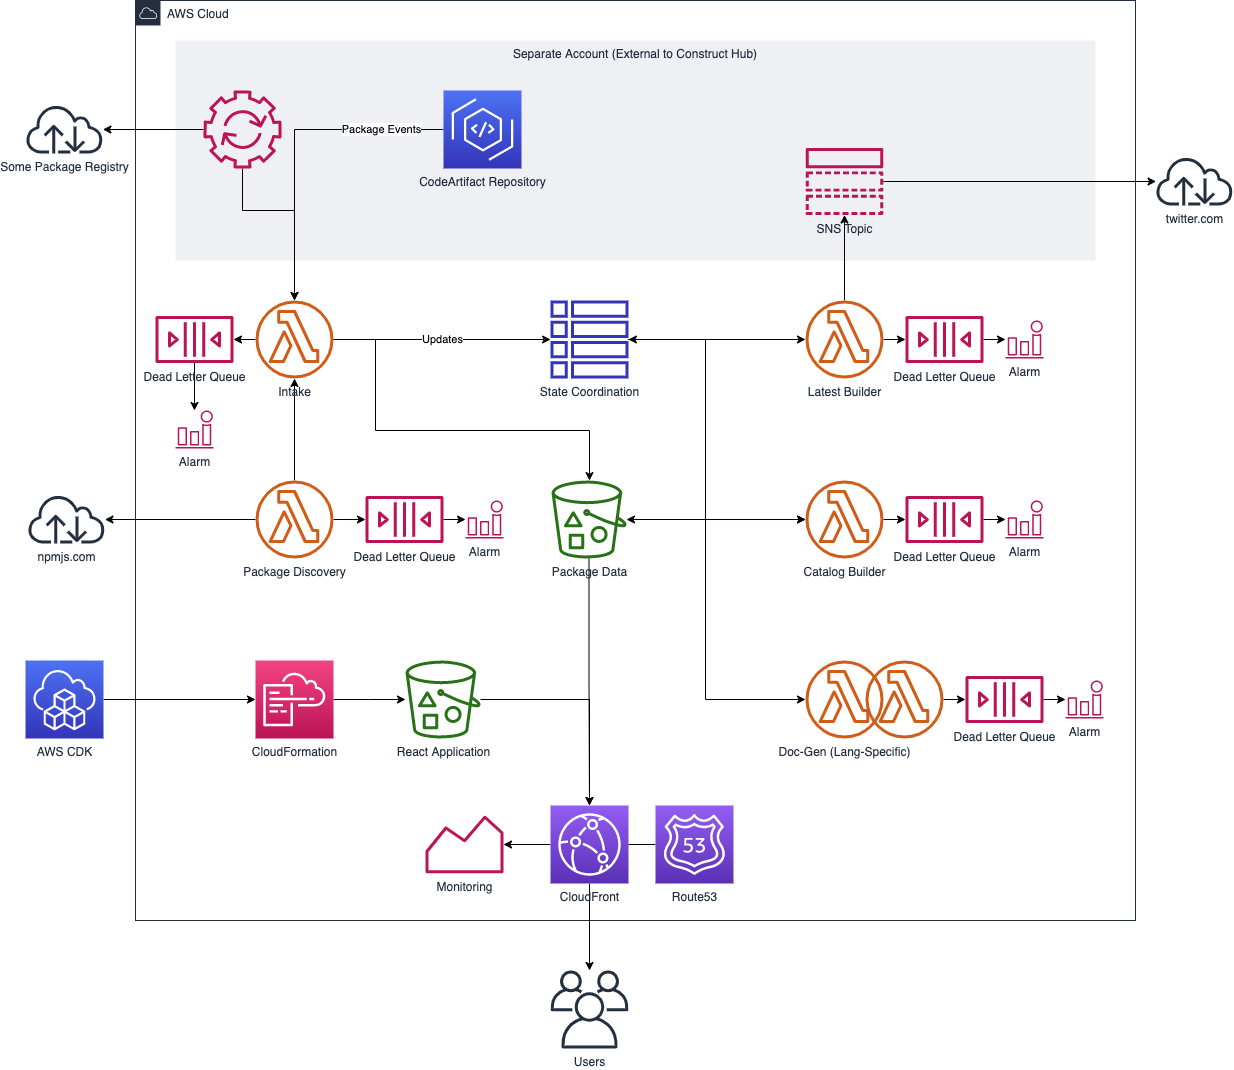
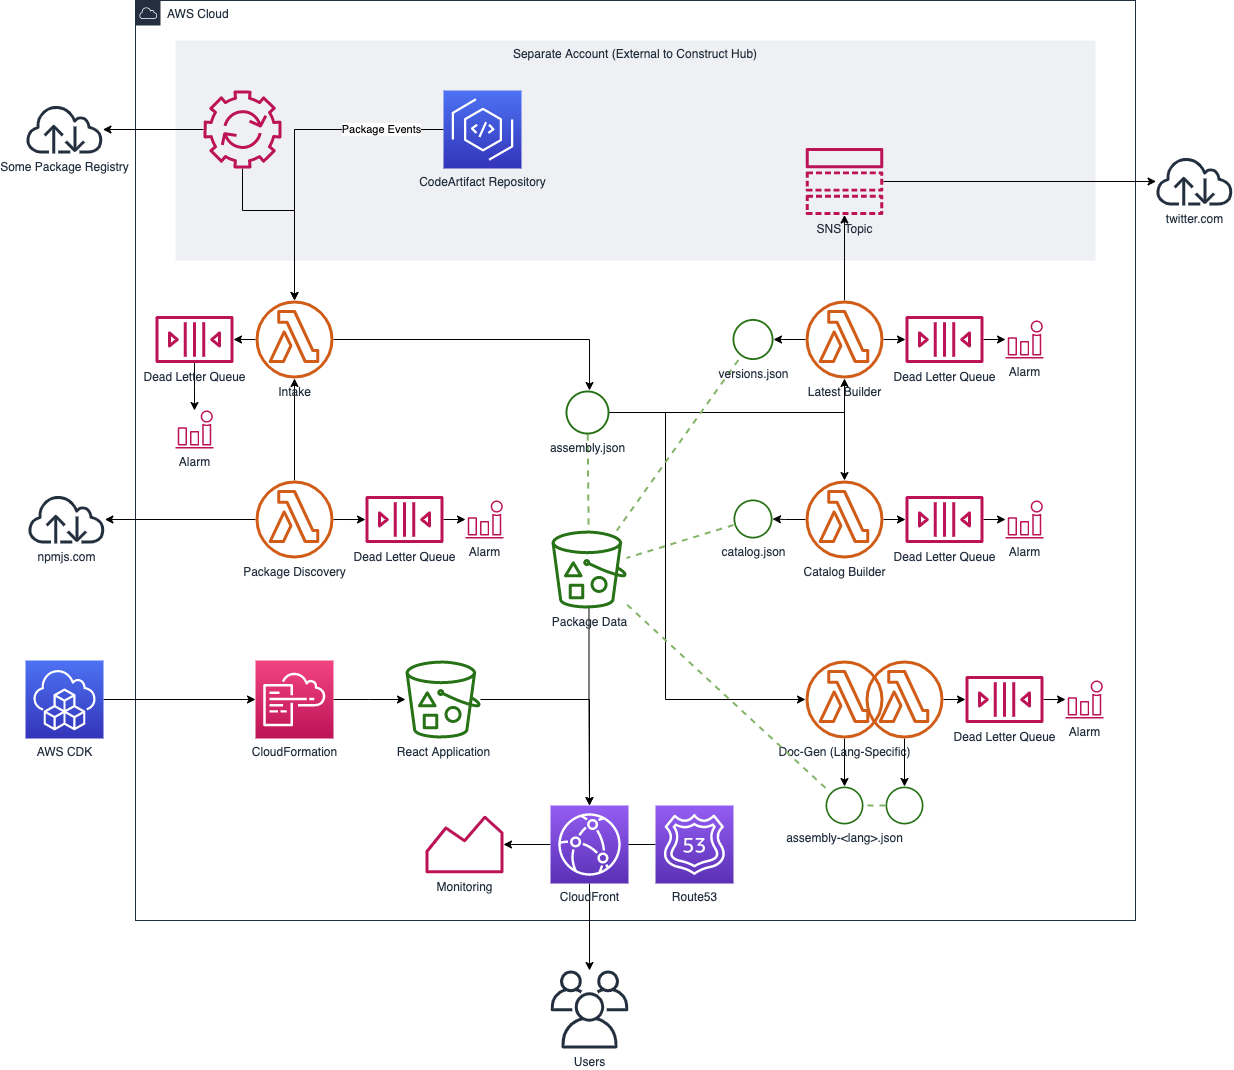
remove DynamoDB table, as S3's strong consistency is largely sufficient

diff --git a/text/0314-cdk-construct-hub.md b/text/0314-cdk-construct-hub.md
@@ -227,13 +227,13 @@ detail pages.
    [SemVer]: https://semver.org/spec/v2.0.0.html
 
    In order to ensure consistency of the contents of the `versions.json` object,
-   a DynamoDB Table is used to contain the current authoritative state of
-   assemblies. Since this data is only used as a form of distributed locking
-   mechanism, the table is configured with a Time-to-Live setting that ensures
-   data is automatically purged out of the table when no longer useful. The
-   contents of the `assembly.json` files remains the source of truth for indexed
-   packages. The object schema for the DynamoDB table is described in [appendix
-   "DynamoDB Object Schema"](#dynamodb-object-schema)
+   its content will always be generated from the live inventory of objects in S3
+   (and not incrementally using the update trigger event), and the last event
+   timestamp will be written in an object metadata attribute. The S3 Bucket will
+   have object versioning enabled, and once a new version of the `versions.json`
+   object has been created, its metadata will be checked against any previous
+   versions of the object, and the "current" version will be set to the one with
+   the latest event timestamp if needed.
 
    The operator of private instances can provide an optional SNS topic which
    will be notified once the information for a new package version is ready to
@@ -327,7 +327,7 @@ to the application, with the following configuration properties:
 
 Name           | Description
 ---------------|--------------------------------------------------------------------------------------------------------
-`dnsName`      | The DNS name to use for hosting the Construct Hub instance
+`hostedZone`   | The Route53 Hosted Zone to use for hosting the Construct Hub instance
 `pathPrefix`   | The URL prefix for the Construct Hub hosting
 `contactUrls`  | An object describing the URLs to use for contacting operators (e.g: GitHub issue templates)
 `enableNpmFeed`| Whether the NPM registry integration should be enabled (optional, defaults to enabled)
@@ -389,11 +389,6 @@ common patterns that can be applied in other contexts than the Construct Hub
   - `Maximum` of `ApproximateNumberOfMessagesVisible`: gives a sense of how many
     messages are pending processing
 
-- **DynamoDB Tables**:
-  - `Sum` of `ReadThrottleEvents` and `WriteThrottleEvents`: determines when the
-    table no longer scales with the workload
-    + Alarm when `> 1` for `3 consecutive 5 minutes intervals`
-
 All alarms are exposed out of the construct, such that operators are able to
 configure customized actions to react to metrics going out-of-band, including
 integrations with external (sometimes private) notification software (such as
@@ -451,39 +446,6 @@ URL                 | Description                                               
 `/assets/*`         | Assets that are part of the React application (CSS, JS, ...)| `react-bucket`
 `/data/*`           | The data files maintained by the back-end application       | `packages-bucket`
 
-### DynamoDB Object Schema
-
-Objects in DynamoDB are designed in such a way that mutations are exclusively
-additive: once an object has been created in the table, subsequent updates
-should only add new attributes, but should not mutate attributes that are
-already set. Which attributes are set on an object can then be used to represent
-the state of the object through the ingestion pipeline.
-
-Audit fields such as `updated_at` are an exception to the "additive only" rule,
-as these are to be updated each time a record is touched.
-
-Property                | Description
-------------------------|-----------------------------------------------------------------------------------------------
-`package_id` (Hash Key) | The name and major version (`<name>@<major>`) of the major package line being tracked
-`version` (Range Key)   | The full version number for a given package, as specified in the `.jsii` assembly
-`created_at`            | The timestamp at which this version was created (`ISO-8601` format, UTC time zone)
-`updated_at`            | The timestamp of the last update to this object (`ISO-8601` format, UTC time zone)
-`assembly_key`          | Set once the `assembly.json` object has been created in the package data bucket
-`translated_<lang>_key` | Set once the transliterated documentation for `<lang>` is ready in the package data bucket
-`<stage>_errors`        | Whenever one of the transformation `<stage>`stages fails, the execution ID is added to this list
-
-For each `package_id`, a second object is maintained in the same table, with
-`version` set to `latest`. That object is used to track the latest known version
-for the given `package_id`, and has the following schema:
-
-Property                | Description
-------------------------|-----------------------------------------------------------------------------------------------
-`package_id` (Hash Key) | The name and major version (`<name>@<major>`) of the major package line being tracked
-`version` (Range Key)   | Always `latest`
-`created_at`            | The timestamp at which this version was created (`ISO-8601` format, UTC time zone)
-`updated_at`            | The timestamp of the last update to this object (`ISO-8601` format, UTC time zone)
-`resolved_version`      | The latest version indexed for this `package_id`, according to [SemVer] rules
-
 ### API Contracts
 
 #### "Package Discovery" Function
@@ -538,18 +500,15 @@ export interface IngestionInput {
 }
 ```
 
-The *Ingestion* function produces no output, but inserts (or updates) items in
-the DynamoDB Table, according to the schema defined in [DynamoDB Object
-Schema](#dynamodb-object-schema). It also creates the `assembly.json` object,
-which is a full copy of the `.jsii` assembly object.
+The *Ingestion* function produces no output, but creates the `assembly.json`
+object, which is a full copy of the `.jsii` assembly object.
 
 #### "Doc-Gen" Function
 
-The *Doc-Gen* function is triggered from DynamoDB Table stream events that
-include the "New" image.
+The *Doc-Gen* function is triggered from S3 object update events.
 
 It produces no particular output, but creates or updates the relevant object
-in the S3 Bucket that contains package information:
+in the S3 Bucket that contains transliterated package information:
 
 ```ts
 import { Assembly } from '@jsii/spec';
@@ -559,11 +518,10 @@ export type TransliteratedAssembly = Assembly;
 
 #### "Latest Updater" Function
 
-The *Latest Updater* function is triggered from DynamoDB Table stream events
-that include the "New" image.
+The *Latest Updater* function is triggered from S3 Object update events.
 
-It produces no particular output, but creates or updates the relevant object
-in the S3 Bucket that contains package information:
+It produces no particular output, but creates or updates the `latest.json`
+object in the S3 Bucket with the following content:
 
 ```ts
 import { AssemblyTargets } from '@jsii/spec';
@@ -640,11 +598,10 @@ export interface PackageInfo {
 
 #### "Catalog Builder" Function
 
-The *Catalog Builder* function is triggered from DynamoDB Table stream events
-that include the "New" image.
+The *Catalog Builder* function is triggered from S3 object update stream events.
 
-It produces no particular output, but creates or updates the relevant object
-in the S3 Bucket that contains package information:
+It produces no particular output, but creates or updates the `catalog.json`
+object in the S3 Bucket that contains the full package list:
 
 ```ts
 export interface Catalog {
